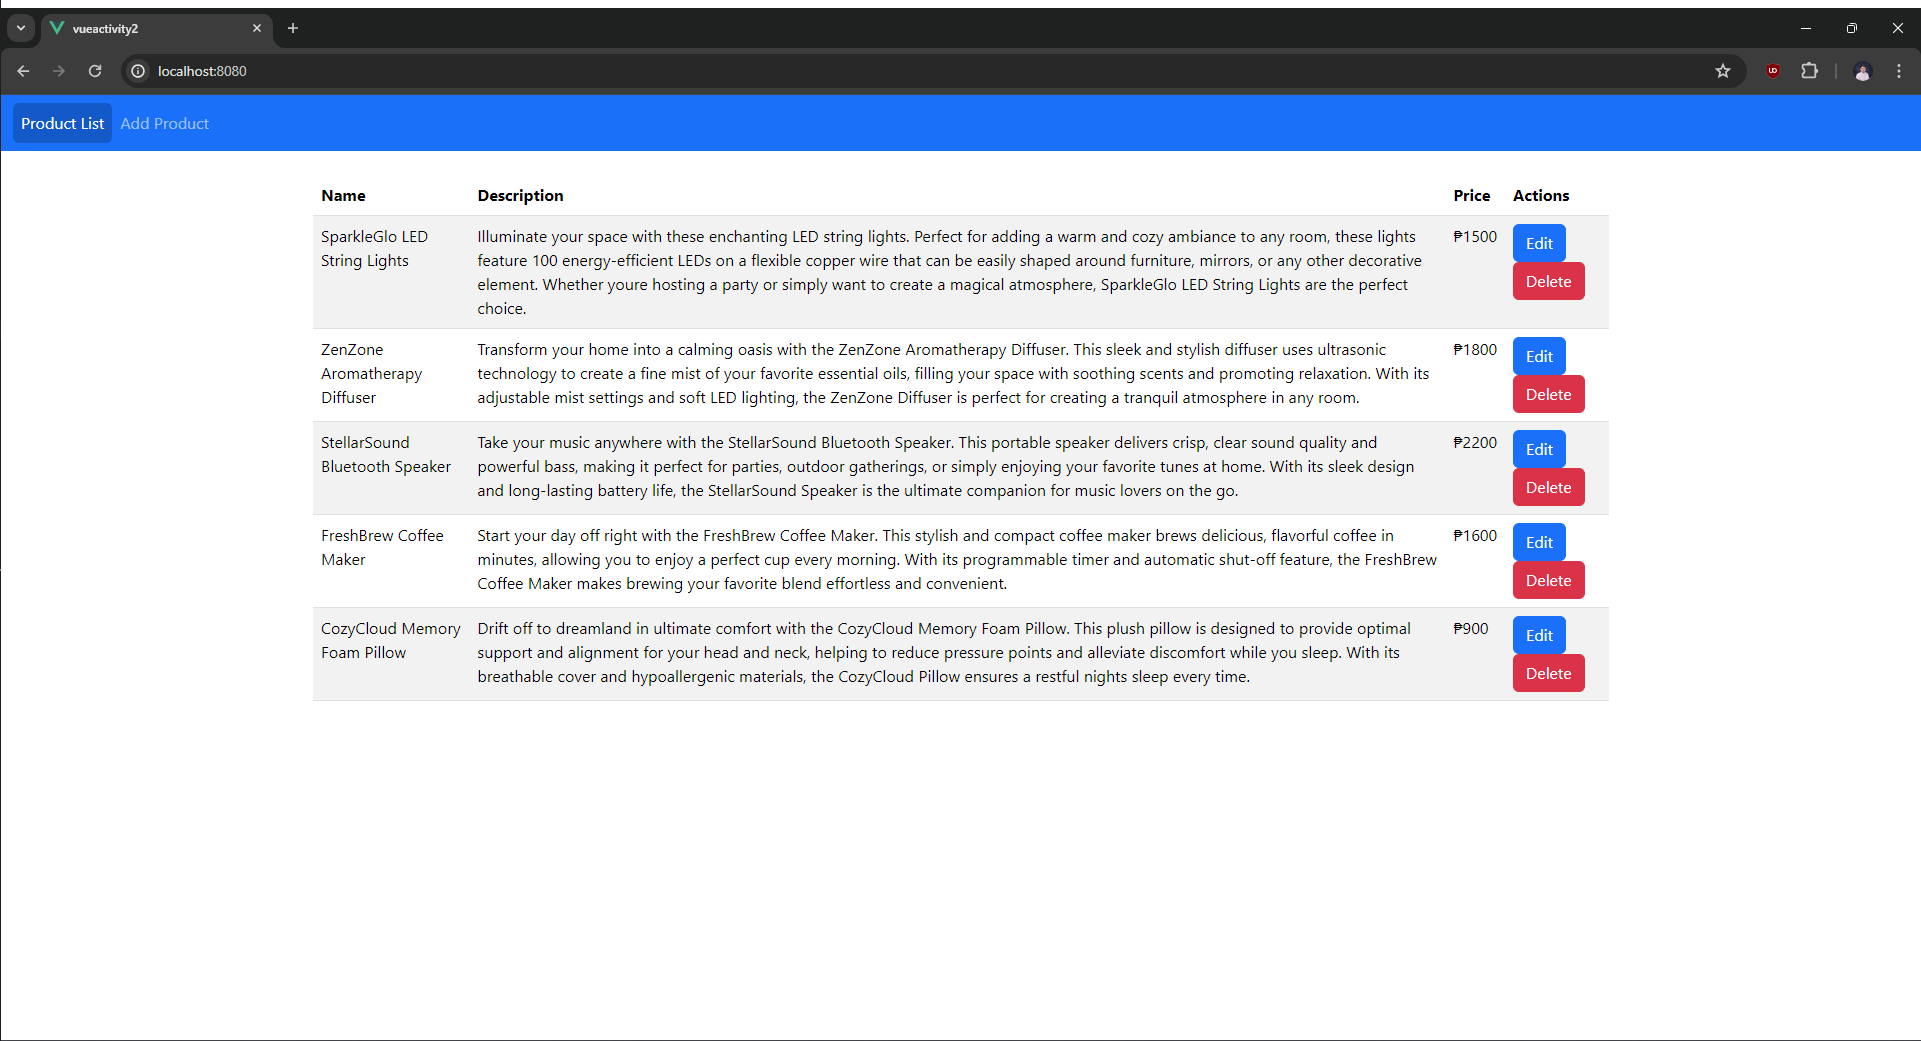
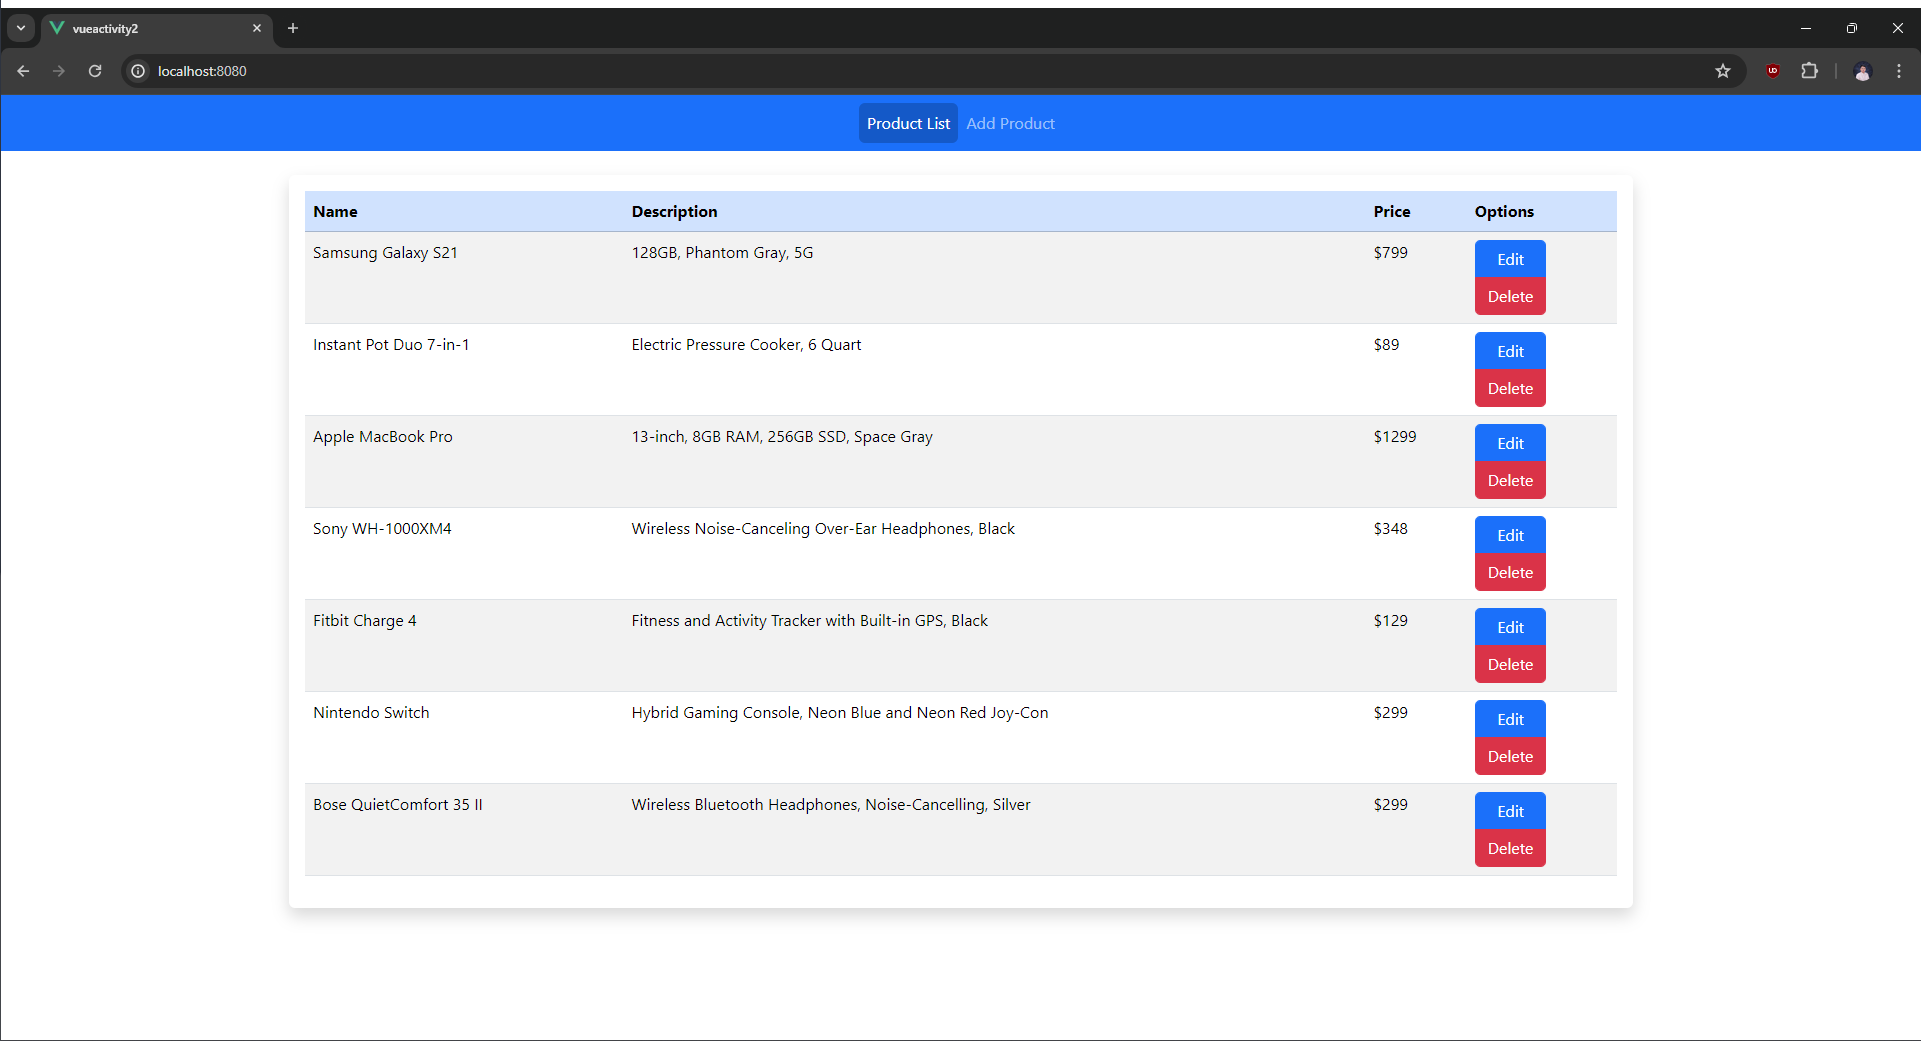
super final revision

diff --git a/src/components/ProductList.vue b/src/components/ProductList.vue
@@ -1,9 +1,9 @@
 <template>
-  <div class="container mt-4">
-    <p v-if="successMessage" class="alert alert-success">{{ successMessage }}</p>
+  <div class="list-product-container container mt-4 shadow p-3 mb-5 bg-white rounded">
+    <p v-if="successMessage" class="list-product-message alert alert-success mt-3 text-center">{{ successMessage }}</p>
     <table class="table table-striped" v-if="products.length">
-      <thead class="thead-dark">
-        <tr>
+      <thead>
+        <tr class="table-primary">
           <th>Name</th>
           <th>Description</th>
           <th>Price</th>
@@ -13,32 +13,34 @@
       <tbody>
         <tr v-for="product in products" :key="product.id">
           <td :class="{ 'editing': product.editing, 'saving': product.isSaving, 'deleting': product.isDeleting }">
-            <span v-if="!product.editing" @click="editProduct(product)">{{ product.name }}</span>
+            <span v-if="!product.editing">{{ product.name }}</span>
             <input v-else v-model="product.editedName" type="text" id="name" class="form-control" required>
           </td>
           <td :class="{ 'editing': product.editing, 'saving': product.isSaving, 'deleting': product.isDeleting }">
-            <span v-if="!product.editing" @click="editProduct(product)">{{ product.description }}</span>
+            <span v-if="!product.editing">{{ product.description }}</span>
             <input v-else v-model="product.editedDescription" type="text" class="form-control" required>
           </td>
           <td :class="{ 'editing': product.editing, 'saving': product.isSaving, 'deleting': product.isDeleting }">
-            <span v-if="!product.editing" @click="editProduct(product)">₱{{ product.price }}</span>
+            <span v-if="!product.editing" >${{ product.price }}</span>
             <input v-else v-model="product.editedPrice" type="number" class="form-control" required>
           </td>
           <td :class="{ 'editing': product.editing, 'saving': product.isSaving, 'deleting': product.isDeleting, 'fade-out': product.isSaving }">
-            <button @click="product.editing ? saveProduct(product) : toggleEditMode(product)" class="btn btn-primary mr-2">
-              <span v-if="product.isSaving" class="spinner-border spinner-border-sm" role="status" aria-hidden="true"></span>
-              {{ product.editing ? 'Save' : 'Edit' }}
-            </button>
-            <button @click="deleteProduct(product)" class="btn btn-danger">
-              <span v-if="product.isDeleting" class="spinner-border spinner-border-sm" role="status" aria-hidden="true"></span>
-              Delete
-            </button>
+            <div class="btn-group-vertical" role="group">
+              <button @click="product.editing ? saveProduct(product) : editProduct(product)" class="btn btn-primary btn-block">
+                <span v-if="product.isSaving" class="spinner-border spinner-border-sm" role="status" aria-hidden="true"></span>
+                {{ product.editing ? 'Save' : 'Edit' }}
+              </button>
+              <button @click="deleteProduct(product)" class="btn btn-danger btn-block">
+                <span v-if="product.isDeleting" class="spinner-border spinner-border-sm" role="status" aria-hidden="true"></span>
+                Delete
+              </button>
+            </div>
           </td>
         </tr>
       </tbody>
     </table>
     <div v-else>
-      <p class="alert alert-warning">No product available!</p>
+      <p class="alert alert-warning mt-3 text-center">No product available!</p>
     </div>
   </div>
 </template>
@@ -47,19 +49,19 @@
 export default {
   name: 'productList',
   data() {
-  return {
-    productMessage: '',
-    editingProduct: null,
-    successMessage: ''
-  };
-},
+    return {
+      productMessage: '',
+      editingProduct: null,
+      successMessage: ''
+    };
+  },
   computed: {
     products() {
       return this.$store.state.products;
     },
   },
   methods: {
-    toggleEditMode(product) {
+    editProduct(product) {
       product.editing = !product.editing;
       if (product.editing) {
         product.editedName = product.name;
@@ -72,18 +74,22 @@ export default {
       }
     },
     saveProduct(product) {
+      if (!product.editedName || !product.editedDescription || !product.editedPrice) {
+        alert('All fields are required!');
+        return;
+      }
       if (!confirm("Are you sure you want to edit this product?")) {
-        this.toggleEditMode(product);
+        this.editProduct(product);
         return;
       }
       product.isSaving = true;
       setTimeout(() => {
+        product.editing = false;
+        product.isSaving = false; 
         product.name = product.editedName;
         product.description = product.editedDescription;
         product.price = product.editedPrice;
-        product.editing = false;
-        this.successMessage = 'Product edited successfully!';
-        product.isSaving = false; 
+        this.successMessage = 'Product successfully edited!';
         setTimeout(() => {
           this.successMessage = '';
         }, 3000); 
@@ -99,7 +105,7 @@ export default {
         if (index !== -1) {
           this.products.splice(index, 1);
         }
-        this.successMessage = 'Product deleted successfully!';
+        this.successMessage = 'Product successfully deleted!';
         setTimeout(() => {
           this.successMessage = '';
         }, 3000);
@@ -110,7 +116,20 @@ export default {
 </script>
 
 <style scoped>
+  .container {
+  max-width: 70%;
+  }
+
+  .shadow {
+    box-shadow: 0 4px 8px 0 rgba(0,0,0,0.2);
+  }
+
+  .rounded {
+    border-radius: 5px;
+  }
+
   .editing {
+    background-color: #fefbd8;
     transition: background-color 0.3s ease;
   }
 
@@ -122,5 +141,9 @@ export default {
   .deleting {
     background-color: #ff9999;
     transition: background-color 0.3s ease;
+  }
+
+  .list-product-message {
+    max-width: 100%;
   }
 </style>

diff --git a/src/store/store.js b/src/store/store.js
@@ -4,13 +4,15 @@ export const store = new Vuex.Store({
   name: 'store',
   state: {
     products: [
-      { id: 1, name: 'SparkleGlo LED String Lights', description: ' Illuminate your space with these enchanting LED string lights. Perfect for adding a warm and cozy ambiance to any room, these lights feature 100 energy-efficient LEDs on a flexible copper wire that can be easily shaped around furniture, mirrors, or any other decorative element. Whether youre hosting a party or simply want to create a magical atmosphere, SparkleGlo LED String Lights are the perfect choice.', price: 1500.00, },                                                                                         
-      { id: 2, name: 'ZenZone Aromatherapy Diffuser', description: 'Transform your home into a calming oasis with the ZenZone Aromatherapy Diffuser. This sleek and stylish diffuser uses ultrasonic technology to create a fine mist of your favorite essential oils, filling your space with soothing scents and promoting relaxation. With its adjustable mist settings and soft LED lighting, the ZenZone Diffuser is perfect for creating a tranquil atmosphere in any room.', price: 1800.00, },
-      { id: 3, name: 'StellarSound Bluetooth Speaker', description: 'Take your music anywhere with the StellarSound Bluetooth Speaker. This portable speaker delivers crisp, clear sound quality and powerful bass, making it perfect for parties, outdoor gatherings, or simply enjoying your favorite tunes at home. With its sleek design and long-lasting battery life, the StellarSound Speaker is the ultimate companion for music lovers on the go.', price: 2200.00, },
-      { id: 4, name: 'FreshBrew Coffee Maker', description: 'Start your day off right with the FreshBrew Coffee Maker. This stylish and compact coffee maker brews delicious, flavorful coffee in minutes, allowing you to enjoy a perfect cup every morning. With its programmable timer and automatic shut-off feature, the FreshBrew Coffee Maker makes brewing your favorite blend effortless and convenient.', price: 1600.00, },                                                                                         
-      { id: 5, name: 'CozyCloud Memory Foam Pillow', description: 'Drift off to dreamland in ultimate comfort with the CozyCloud Memory Foam Pillow. This plush pillow is designed to provide optimal support and alignment for your head and neck, helping to reduce pressure points and alleviate discomfort while you sleep. With its breathable cover and hypoallergenic materials, the CozyCloud Pillow ensures a restful nights sleep every time.', price: 900.00, },
+      { id: 1, name: 'Samsung Galaxy S21', description: '128GB, Phantom Gray, 5G', price: 799, },
+      { id: 2, name: 'Instant Pot Duo 7-in-1', description: 'Electric Pressure Cooker, 6 Quart', price: 89, },
+      { id: 3, name: 'Apple MacBook Pro', description: '13-inch, 8GB RAM, 256GB SSD, Space Gray', price: 1299, },                                        
+      { id: 4, name: 'Sony WH-1000XM4', description: 'Wireless Noise-Canceling Over-Ear Headphones, Black', price: 348, },
+      { id: 5, name: 'Fitbit Charge 4', description: 'Fitness and Activity Tracker with Built-in GPS, Black', price: 129, },
+      { id: 6, name: 'Nintendo Switch', description: 'Hybrid Gaming Console, Neon Blue and Neon Red Joy-Con', price: 299, },
+      { id: 7, name: 'Bose QuietComfort 35 II', description: 'Wireless Bluetooth Headphones, Noise-Cancelling, Silver', price: 299, },
     ], 
-    nextProductId: 6
+    nextProductId: 8
   },
   mutations: {
     addProduct(state, product) {

diff --git a/src/components/AddProduct.vue b/src/components/AddProduct.vue
@@ -1,7 +1,8 @@
 <template>
-  <div class="add-product-container container">
-    <transition name="fade">
-      <form v-if="!isAdding" @submit.prevent="addProduct" class="add-product-form">
+  <div class="d-flex flex-column justify-content-center align-items-center vh-100">
+    <div class="add-product-container container mt-4 shadow p-3 mb-5 bg-white rounded">
+      <div v-if="isAdding" class="add-product-message alert alert-success mt-3 text-center">Product successfully added!</div>
+      <form @submit.prevent="addProduct" class="add-product-form">
         <div class="form-group mb-3">
           <label for="name">Product Name:</label>
           <input type="text" id="name" v-model="name" class="form-control" placeholder="Enter Product Name" required>
@@ -15,11 +16,10 @@
           <input type="number" id="price" v-model.number="price" class="form-control" placeholder="Enter Product Price" min="0" required>
         </div>
         <div class="form-group mb-3">
-          <button type="submit" class="btn btn-success">Add Product</button>
+          <button type="submit" class="form-control btn btn-success btn-block">Add Product</button>
         </div>
       </form>
-    </transition>
-    <div v-if="isAdding" class="add-product-message alert alert-success mt-3">Product added successfully!</div>
+    </div>
   </div>
 </template>
 
@@ -55,3 +55,45 @@ export default {
   }
 };
 </script>
+
+<style scoped>
+  .container {
+    max-width: 70%;
+  }
+
+  .shadow {
+    box-shadow: 0 4px 8px 0 rgba(0,0,0,0.2);
+  }
+
+  .rounded {
+    border-radius: 5px;
+  }
+
+  .d-flex {
+    display: flex;
+  }
+
+  .flex-column {
+    flex-direction: column;
+  }
+
+  .justify-content-center {
+    justify-content: center;
+  }
+
+  .align-items-center {
+    align-items: center;
+  }
+
+  .vh-100 {
+    height: 100vh;
+  }
+
+  .text-center {
+    text-align: center;
+  }
+
+  .add-product-message {
+    max-width: 100%;
+  }
+</style>

diff --git a/src/App.vue b/src/App.vue
@@ -4,7 +4,7 @@
       <button class="navbar-toggler" type="button" data-bs-toggle="collapse" data-bs-target="#navbarNav" aria-controls="navbarNav" aria-expanded="false" aria-label="Toggle navigation">
         <span class="navbar-toggler-icon"></span>
       </button>
-      <div class="collapse navbar-collapse" id="navbarNav">
+      <div class="collapse navbar-collapse justify-content-center" id="navbarNav">
         <ul class="navbar-nav">
           <li class="nav-item">
             <router-link to="/" class="nav-link btn btn-primary" active-class="active" aria-current="page">Product List</router-link>

diff --git a/README.md b/README.md
@@ -83,7 +83,7 @@ Develop a Vue.js application that allows users to manage a list of products. The
 **Run the project:**
 
 ```
-    npm run dev
+    npm run serve
 ```
 
 ## Screenshots
@@ -92,9 +92,18 @@ Develop a Vue.js application that allows users to manage a list of products. The
 
 ![Image 2](src/assets/images/image2.png)
 
-<!-- ![Image 3](src/assets/images/image3.png) -->
+![Image 3](src/assets/images/image3.png)
 
-<!-- ![Image 4](src/assets/images/image4.png) -->
+![Image 4](src/assets/images/image4.png)
 
-<!-- ![Image 5](src/assets/images/image5.png) -->
+![Image 5](src/assets/images/image5.png)
 
+![Image 6](src/assets/images/image6.png)
+
+![Image 7](src/assets/images/image7.png)
+
+![Image 8](src/assets/images/image8.png)
+
+![Image 9](src/assets/images/image9.png)
+
+![Image 10](src/assets/images/image10.png)
